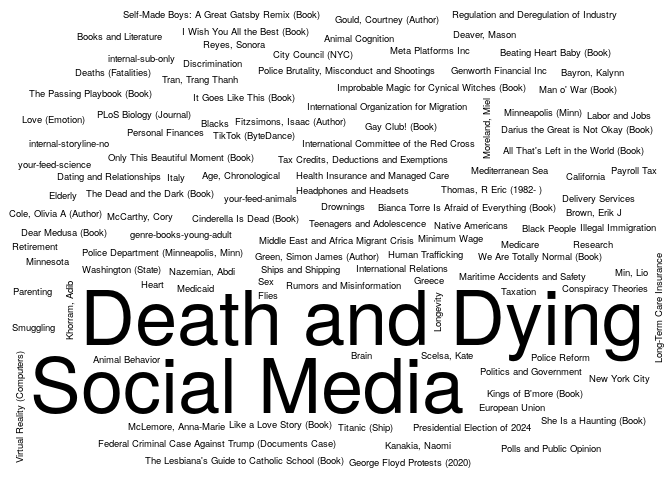
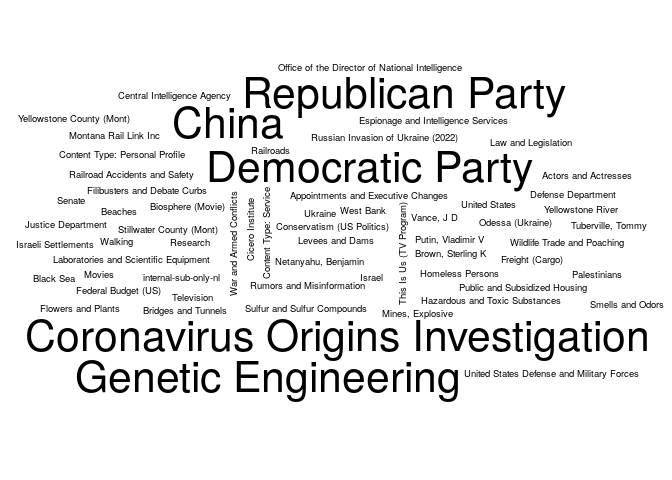
Updating the NYT report

Changed region(s): [[0.0, 0.0, 1.0, 0.9688]]

diff --git a/03-nytimes/README.md b/03-nytimes/README.md
@@ -5,7 +5,7 @@ The following is an example of how to use the [NYTimes
 API](https://developer.nytimes.com/) to get a list of articles related
 to a particular term. Here we are searching articles that include the
 term `"health"`, and that were published up to seven days ago since
-2023-06-19.
+2023-06-26.
 
 ``` r
 # Preparing a function to use the GET method with the NYTimes API
@@ -83,25 +83,25 @@ colnames(tab) <- c("Keyword", "# Articles")
 knitr::kable(tab, row.names = FALSE)
 ```
 
-| Keyword                                     | \# Articles |
-|:--------------------------------------------|------------:|
-| Computers and the Internet                  |          10 |
-| Death and Dying                             |          10 |
-| Social Media                                |          10 |
-| Age, Chronological                          |           5 |
-| All That’s Left in the World (Book)         |           5 |
-| Animal Behavior                             |           5 |
-| Animal Cognition                            |           5 |
-| Bayron, Kalynn                              |           5 |
-| Beating Heart Baby (Book)                   |           5 |
-| Bianca Torre Is Afraid of Everything (Book) |           5 |
-| Black People                                |           5 |
-| Blacks                                      |           5 |
-| Books and Literature                        |           5 |
-| Brain                                       |           5 |
-| Brown, Erik J                               |           5 |
-| California                                  |           5 |
-| Cinderella Is Dead (Book)                   |           5 |
-| City Council (NYC)                          |           5 |
-| Cole, Olivia A (Author)                     |           5 |
-| Conspiracy Theories                         |           5 |
+| Keyword                                  | \# Articles |
+|:-----------------------------------------|------------:|
+| United States Politics and Government    |          15 |
+| China                                    |          10 |
+| Classified Information and State Secrets |          10 |
+| Coronavirus (2019-nCoV)                  |          10 |
+| Coronavirus Origins Investigation        |          10 |
+| Democratic Party                         |          10 |
+| Genetic Engineering                      |          10 |
+| Republican Party                         |          10 |
+| Wuhan Institute of Virology (China)      |          10 |
+| Actors and Actresses                     |           5 |
+| Appointments and Executive Changes       |           5 |
+| Beaches                                  |           5 |
+| Biosphere (Movie)                        |           5 |
+| Black Sea                                |           5 |
+| Bridges and Tunnels                      |           5 |
+| Brown, Sterling K                        |           5 |
+| Central Intelligence Agency              |           5 |
+| Cicero Institute                         |           5 |
+| Conservatism (US Politics)               |           5 |
+| Content Type: Personal Profile           |           5 |
